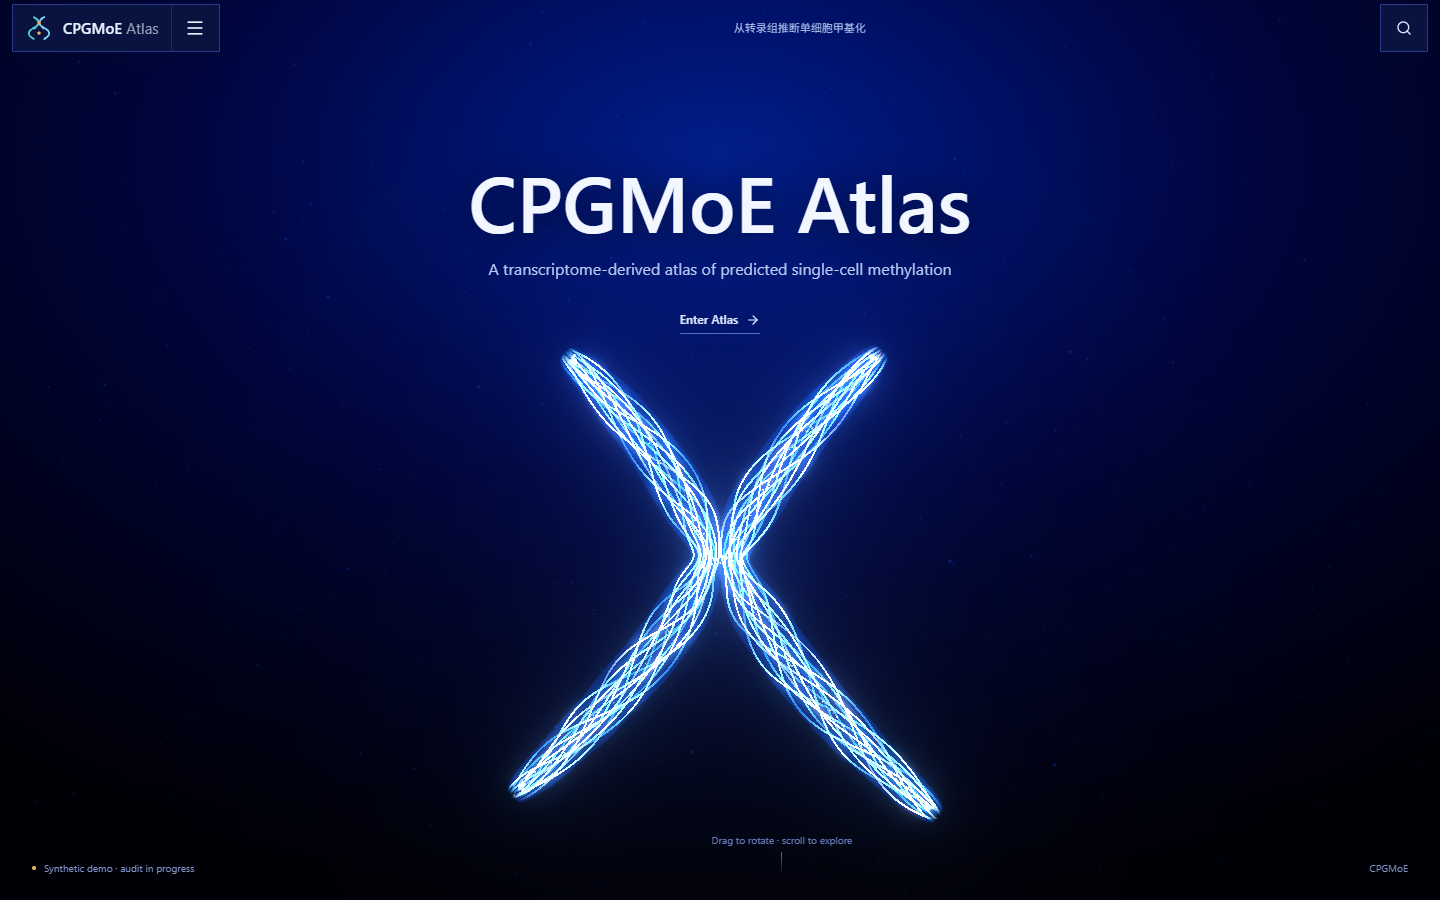
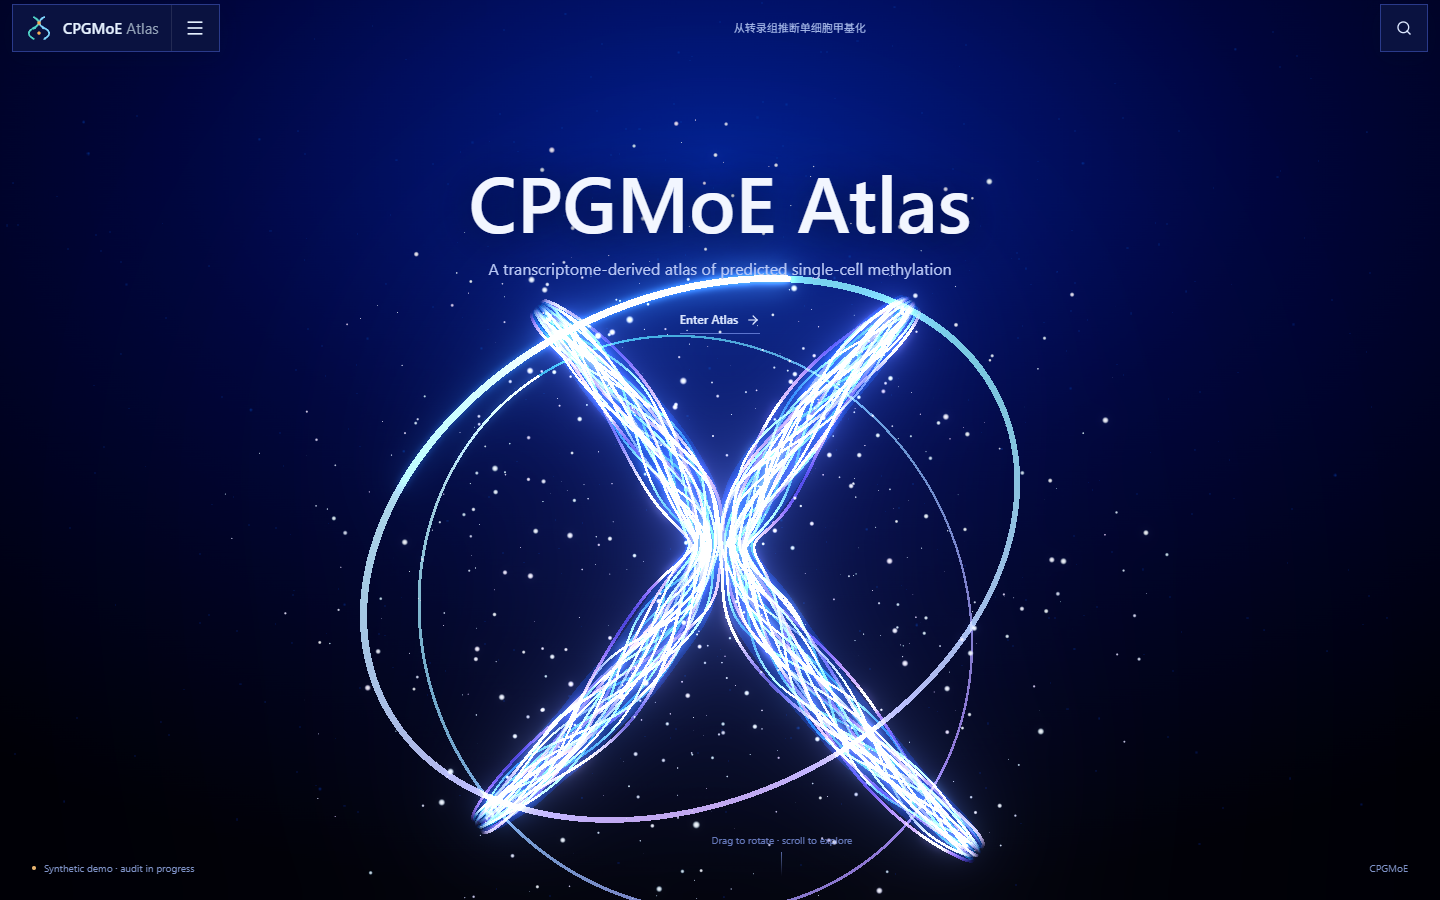
Enlarge the hero chromosome, add orbital nucleus rings and spark field
- Scale the chromosome up and re-frame it so the whole shape sits inside the
  viewport
- Two tilted glowing rings (cyan to violet, travelling highlight) orbit the
  chromosome like a nucleus envelope
- New spark particle field twinkles and drifts around the shape and is pushed
  away by the cursor

diff --git a/src/components/home/cinematic-canvas.tsx b/src/components/home/cinematic-canvas.tsx
@@ -173,6 +173,80 @@ function makeDust(
   return new THREE.Points(geometry, material);
 }
 
+function makeSparkField(
+  count: number,
+): THREE.Points<THREE.BufferGeometry, THREE.ShaderMaterial> {
+  const geometry = new THREE.BufferGeometry();
+  const positions = new Float32Array(count * 3);
+  const randoms = new Float32Array(count);
+  const hues = new Float32Array(count);
+  for (let i = 0; i < count; i += 1) {
+    const radius = 1.5 + Math.pow(Math.random(), 0.7) * 2.8;
+    const theta = Math.random() * Math.PI * 2;
+    const phi = Math.acos(2 * Math.random() - 1);
+    positions[i * 3] = radius * Math.sin(phi) * Math.cos(theta);
+    positions[i * 3 + 1] = radius * Math.cos(phi) * 0.95;
+    positions[i * 3 + 2] = radius * Math.sin(phi) * Math.sin(theta) * 0.6;
+    randoms[i] = Math.random();
+    hues[i] = Math.random();
+  }
+  geometry.setAttribute("position", new THREE.BufferAttribute(positions, 3));
+  geometry.setAttribute("aRandom", new THREE.BufferAttribute(randoms, 1));
+  geometry.setAttribute("aHue", new THREE.BufferAttribute(hues, 1));
+
+  const material = new THREE.ShaderMaterial({
+    uniforms: {
+      uTime: { value: 0 },
+      uMouse: { value: new THREE.Vector3(9999, 9999, 9999) },
+    },
+    vertexShader: `
+      uniform float uTime;
+      uniform vec3 uMouse;
+      attribute float aRandom;
+      attribute float aHue;
+      varying float vAlpha;
+      varying vec3 vColor;
+      void main() {
+        vec3 pos = position;
+        float phase = aRandom * 6.28318;
+        pos.x += sin(uTime * 0.3 + phase) * 0.12;
+        pos.y += cos(uTime * 0.26 + phase) * 0.12;
+        pos.z += sin(uTime * 0.22 + phase * 1.7) * 0.08;
+        vec4 world = modelMatrix * vec4(pos, 1.0);
+        float distanceToMouse = distance(world.xyz, uMouse);
+        if (distanceToMouse < 2.2) {
+          vec3 repulse = normalize(world.xyz - uMouse);
+          float force = pow(1.0 - distanceToMouse / 2.2, 2.0);
+          pos += repulse * force * 0.7;
+        }
+        vec4 mvPosition = modelViewMatrix * vec4(pos, 1.0);
+        gl_Position = projectionMatrix * mvPosition;
+        float twinkle = 0.3 + 0.7 * pow(0.5 + 0.5 * sin(uTime * 1.6 + phase * 2.0), 2.0);
+        gl_PointSize =
+          (1.4 + 3.0 * aRandom) * twinkle * (18.0 / -mvPosition.z);
+        vColor = mix(vec3(0.62, 0.86, 1.0), vec3(0.78, 0.62, 1.0), aHue);
+        vColor = mix(vColor, vec3(1.0), pow(aRandom, 6.0) * 0.85);
+        vAlpha = (0.22 + 0.5 * twinkle) * (0.35 + 0.65 * aRandom);
+      }
+    `,
+    fragmentShader: `
+      varying float vAlpha;
+      varying vec3 vColor;
+      void main() {
+        float d = length(gl_PointCoord - 0.5);
+        if (d > 0.5) discard;
+        float falloff = 1.0 - smoothstep(0.0, 0.5, d);
+        float alpha = pow(falloff, 1.6) * vAlpha;
+        gl_FragColor = vec4(vColor * (1.0 + 0.8 * falloff), alpha);
+      }
+    `,
+    transparent: true,
+    depthWrite: false,
+    blending: THREE.AdditiveBlending,
+  });
+  return new THREE.Points(geometry, material);
+}
+
 function makeChromatidCurves(): {
   left: THREE.CatmullRomCurve3;
   right: THREE.CatmullRomCurve3;
@@ -218,15 +292,28 @@ function chromatidRadius(t: number, thickness: number): number {
 // volume, so the structure stays crisp and reads as light instead of tissue.
 const STRAND_TWIST = Math.PI * 3.6;
 
+type StrandStyle = {
+  strands: number;
+  twist: number;
+  ringScale: number;
+  core: string;
+  coreHi: string;
+  edge: string;
+  intensity: number;
+};
+
 function buildStrandBundle(
   curve: THREE.CatmullRomCurve3,
   isMobile: boolean,
   phaseOffset: number,
+  style: StrandStyle,
 ): THREE.Group {
   const group = new THREE.Group();
-  const strands = isMobile ? 9 : 15;
+  const strands = isMobile
+    ? Math.max(5, Math.round(style.strands * 0.6))
+    : style.strands;
   const segments = isMobile ? 150 : 260;
-  const tubeRadius = isMobile ? 0.013 : 0.0105;
+  const tubeRadius = (isMobile ? 0.013 : 0.0105) * style.ringScale;
   const frames = curve.computeFrenetFrames(segments, false);
   const point = new THREE.Vector3();
 
@@ -236,8 +323,8 @@ function buildStrandBundle(
     const points: THREE.Vector3[] = [];
     for (let s = 0; s <= segments; s += 1) {
       const t = s / segments;
-      const radius = chromatidRadius(t, 1) * ring;
-      const angle = phase + t * STRAND_TWIST;
+      const radius = chromatidRadius(t, 1) * ring * style.ringScale;
+      const angle = phase + t * style.twist;
       curve.getPointAt(t, point);
       points.push(
         point
@@ -264,8 +351,10 @@ function buildStrandBundle(
       uniforms: {
         uTime: { value: 0 },
         uMouse: { value: new THREE.Vector3(9999, 9999, 9999) },
-        uCore: { value: new THREE.Color(i % 4 === 0 ? "#EAF9FF" : "#6FE0FF") },
-        uEdge: { value: new THREE.Color("#1E5BFF") },
+        uCore: {
+          value: new THREE.Color(i % 4 === 0 ? style.coreHi : style.core),
+        },
+        uEdge: { value: new THREE.Color(style.edge) },
         uSeed: { value: i * 1.7 + phaseOffset },
       },
       vertexShader: `
@@ -301,7 +390,7 @@ function buildStrandBundle(
           float fade =
             smoothstep(0.0, 0.05, vUv.x) * smoothstep(1.0, 0.95, vUv.x);
           gl_FragColor = vec4(
-            color * (1.05 + 0.6 * pulse),
+            color * (1.05 + 0.6 * pulse) * ${style.intensity.toFixed(2)},
             (0.34 + 0.3 * pulse) * fade
           );
         }
@@ -520,6 +609,50 @@ function makeGlowShell(
   return new THREE.Mesh(geometry, material);
 }
 
+function makeNucleusRing(
+  radius: number,
+  thickness: number,
+  intensity: number,
+): THREE.Mesh<THREE.BufferGeometry, THREE.ShaderMaterial> {
+  const geometry = new THREE.TorusGeometry(radius, thickness, 8, 256);
+  const material = new THREE.ShaderMaterial({
+    uniforms: {
+      uTime: { value: 0 },
+      uColorA: { value: new THREE.Color("#4FE3FF") },
+      uColorB: { value: new THREE.Color("#A98CFF") },
+      uIntensity: { value: intensity },
+    },
+    vertexShader: `
+      varying vec2 vUv;
+      void main() {
+        vUv = uv;
+        gl_Position = projectionMatrix * modelViewMatrix * vec4(position, 1.0);
+      }
+    `,
+    fragmentShader: `
+      uniform float uTime;
+      uniform float uIntensity;
+      uniform vec3 uColorA;
+      uniform vec3 uColorB;
+      varying vec2 vUv;
+      void main() {
+        float angle = vUv.x;
+        float hue = 0.5 + 0.5 * sin(angle * 6.28318 + uTime * 0.5);
+        vec3 color = mix(uColorA, uColorB, hue);
+        float phase = fract(angle - uTime * 0.045);
+        float head = pow(1.0 - phase, 10.0);
+        color += vec3(0.85) * head;
+        float alpha = (0.55 + 0.35 * hue + head * 0.9) * uIntensity;
+        gl_FragColor = vec4(color, alpha);
+      }
+    `,
+    transparent: true,
+    depthWrite: false,
+    blending: THREE.AdditiveBlending,
+  });
+  return new THREE.Mesh(geometry, material);
+}
+
 function buildTelomereCaps(
   curves: {
     left: THREE.CatmullRomCurve3;
@@ -585,15 +718,35 @@ export function CinematicCanvas() {
     const bloom = new UnrealBloomPass(
       new THREE.Vector2(window.innerWidth, window.innerHeight),
       mobile ? 0.2 : 0.24,
-      0.45,
-      0.5,
+      0.55,
+      0.52,
     );
     composer.addPass(bloom);
 
     const curves = makeChromatidCurves();
     const chromosome = new THREE.Group();
-    const leftStrands = buildStrandBundle(curves.left, mobile, 0);
-    const rightStrands = buildStrandBundle(curves.right, mobile, Math.PI);
+    const coreStyle: StrandStyle = {
+      strands: 15,
+      twist: STRAND_TWIST,
+      ringScale: 1,
+      core: "#6FE0FF",
+      coreHi: "#EAF9FF",
+      edge: "#1E5BFF",
+      intensity: 0.82,
+    };
+    const auraStyle: StrandStyle = {
+      strands: 9,
+      twist: -STRAND_TWIST * 0.55,
+      ringScale: 1.28,
+      core: "#B98CFF",
+      coreHi: "#F0D7FF",
+      edge: "#4A2BFF",
+      intensity: 0.75,
+    };
+    const leftStrands = buildStrandBundle(curves.left, mobile, 0, coreStyle);
+    const rightStrands = buildStrandBundle(curves.right, mobile, Math.PI, coreStyle);
+    const leftAura = buildStrandBundle(curves.left, mobile, 0.9, auraStyle);
+    const rightAura = buildStrandBundle(curves.right, mobile, 2.4, auraStyle);
     const leftShell = makeGlowShell(curves.left, 1);
     const rightShell = makeGlowShell(curves.right, 0.96);
     const caps = buildTelomereCaps(curves, mobile);
@@ -602,32 +755,53 @@ export function CinematicCanvas() {
     chromosome.add(
       leftStrands,
       rightStrands,
+      leftAura,
+      rightAura,
       leftShell,
       rightShell,
       caps,
       core,
       bridge,
     );
-    chromosome.position.y = -1.1;
-    chromosome.scale.setScalar(0.94);
+    const baseScale = mobile ? 0.96 : 1.1;
+    chromosome.position.y = -1;
+    chromosome.scale.setScalar(baseScale);
     scene.add(chromosome);
+
+    const ringRadius = mobile ? 2.2 : 3.15;
+    const nucleus = new THREE.Group();
+    nucleus.position.set(0, -1.45, 0);
+    const ringA = makeNucleusRing(ringRadius, mobile ? 0.032 : 0.028, 1);
+    ringA.rotation.set(0.5, 0, -0.12);
+    const ringB = makeNucleusRing(
+      ringRadius * 0.86,
+      mobile ? 0.016 : 0.012,
+      0.5,
+    );
+    ringB.rotation.set(-0.42, 0, 0.48);
+    nucleus.add(ringA, ringB);
+    scene.add(nucleus);
 
     const halo = new THREE.Sprite(
       new THREE.SpriteMaterial({
         map: makeHaloTexture(),
         color: new THREE.Color("#2F8FA3"),
         transparent: true,
-        opacity: 0.12,
+        opacity: 0.18,
         blending: THREE.AdditiveBlending,
         depthWrite: false,
       }),
     );
     halo.position.set(0, -0.8, -3.2);
-    halo.scale.set(8, 8, 1);
+    halo.scale.set(10, 10, 1);
     scene.add(halo);
 
     const dust = makeDust(mobile ? 260 : 520);
     scene.add(dust);
+
+    const sparks = makeSparkField(mobile ? 280 : 640);
+    sparks.position.set(0, -1, 0);
+    scene.add(sparks);
 
     const raycaster = new THREE.Raycaster();
     const mouse = new THREE.Vector2(9999, 9999);
@@ -753,7 +927,13 @@ export function CinematicCanvas() {
         progress * 0.55 + Math.sin(time * 0.05) * 0.025 + userRotY;
       chromosome.rotation.x = Math.sin(time * 0.07) * 0.025 + userRotX;
       dust.rotation.y += delta * 0.012;
-      chromosome.position.y = -1.1 + Math.sin(time * 0.2) * 0.015;
+      sparks.rotation.y += delta * 0.02;
+      sparks.material.uniforms.uTime.value = time;
+      sparks.material.uniforms.uMouse.value.lerp(targetMouse3D, 0.1);
+      chromosome.position.y = -1 + Math.sin(time * 0.2) * 0.015;
+      chromosome.scale.setScalar(
+        baseScale * (1 + Math.sin(time * 0.45) * 0.012),
+      );
 
       if (mouse.x !== 9999) {
         raycaster.setFromCamera(mouse, camera);
@@ -769,10 +949,14 @@ export function CinematicCanvas() {
         points.material.uniforms.uTime.value = time / 2;
         points.material.uniforms.uMouse.value.lerp(targetMouse3D, 0.1);
       });
+      [ringA, ringB].forEach((ring) => {
+        ring.material.uniforms.uTime.value = time;
+      });
+      nucleus.rotation.y = time * 0.06;
       [leftShell, rightShell].forEach((mesh) => {
         mesh.material.uniforms.uTime.value = time;
       });
-      [leftStrands, rightStrands].forEach((group) => {
+      [leftStrands, rightStrands, leftAura, rightAura].forEach((group) => {
         group.children.forEach((child) => {
           const mesh = child as THREE.Mesh;
           if (mesh.material instanceof THREE.ShaderMaterial) {
